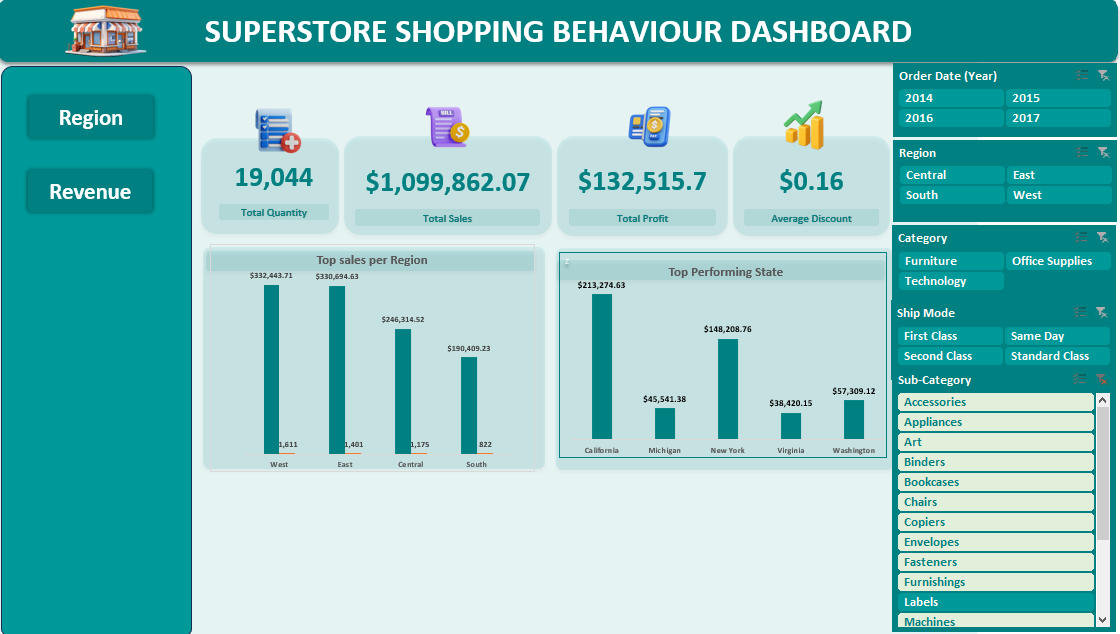
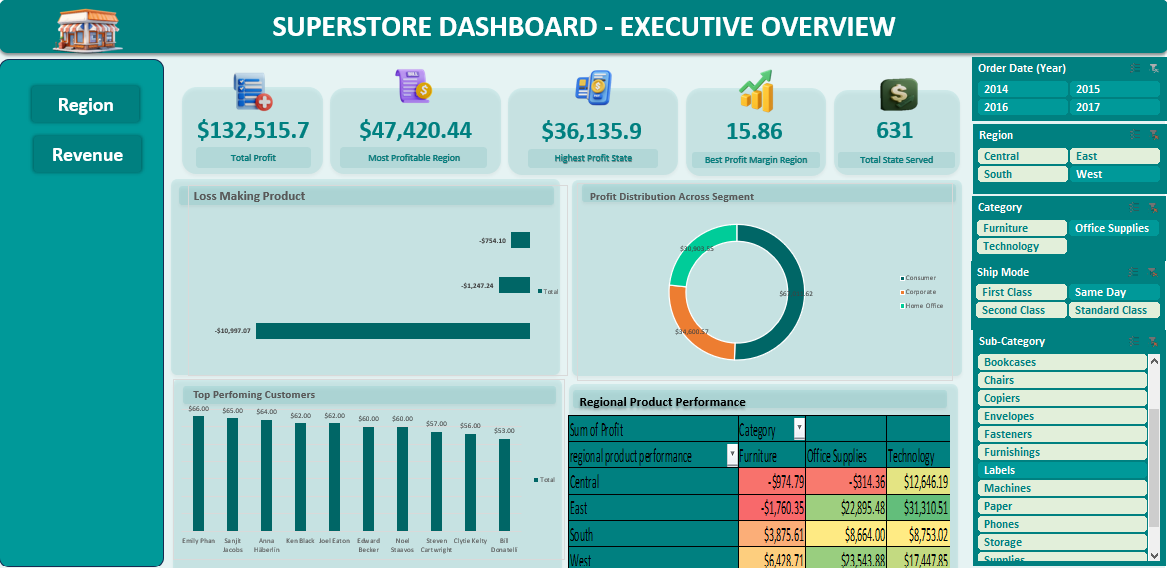
Update Excel data, refresh Dashboard images, and add new project assets

diff --git a/README.md b/README.md
@@ -107,6 +107,43 @@ Location and regional data
 - All 3 loss-making products are from the Furniture category confirming Furniture is a problem area.
 ![Loss-making Products](images/lossmakingproduct.png)
 
+### 9. Regional Business Performance by Revenue & Profit
+- West region led in both total sales ($332,443.71) and profit ($47,420.44)
+- East region came close in sales ($330,694.63) but had higher profit 
+($52,445.63) than West meaning East is more efficient
+- Central region had decent sales ($246,314.52) but the lowest profit ($11,357.04) which is a major concern
+- South had the lowest sales ($190,409.23) with profit of ($21,292.62).
+
+![Regional Business Performance by Revenue & Profit](images/regionalbussinessperformance.png)
+
+
+### 10. Product Performance Analysis
+- Technology dominated with the highest sales ($380,640.90) and highest profit ($70,157.57)
+- Furniture had high sales ($373,504.72) but extremely low profit ($7,569.17) confirming it as the weakest category
+- Office Supplies balanced well with $345,716.46 in sales and 
+$54,789.00 in profit.
+
+![Product Performance Analysis](images/productperformance.png)
+
+
+### 11. Top Performing Customers
+- Emily Phan led as the top customer with $66.00 in quantity purchased.
+- The top 10 customers had very close purchasing quantities rangeing from $53.00 to $66.00
+- No single customer dominated that is purchases were evenly spread across the top 10.
+
+![Top Performing Customers](images/topperformingcustomers.png)
+
+### 12. Regional Product Performance
+- South region led in Office Supplies profit ($31,310.51) 
+and Technology ($17,447.85)
+- East region had negative profit for Furniture (-$1,760.35)  meaning Furniture is losing money in the East
+- Central region also had negative Furniture profit (-$974.79)confirming Furniture is a problem across multiple regions
+- West region performed well in Office Supplies ($23,543.88) 
+and Technology ($6,428.71)
+- Office Supplies was the most consistently profitable category across all regions.
+
+![Regional Product Performance](images/regionalproduct%20performance.png)
+
 
 ## 📊 Dashoboard
 The dashboard below provides a visual summary of all key metrics and findings from the analysis.
@@ -120,17 +157,33 @@ The dashboard below provides a visual summary of all key metrics and findings fr
 
 ## ✅ Recommendations
 
-- Furniture category should be reviewed — consider repricing or discontinuing low-margin products to reduce profit leakage.
-- Technology category should be prioritized as it consistently delivers the highest profit with minimal discounting.
-- South region needs a targeted sales strategy to close the gap with the West and East regions.
-- Office Supplies discounting should be reviewed and controlled to protect profit margins
-- Loss-making products (Bretford Cr4500, Bush Somerset, Acme Scissors) should be evaluated for discontinuation or cost reduction
+- Furniture category should be reviewed urgently, it is making losses in Central and East regions specifically. Consider repricing or discontinuing low-margin furniture products.
+- Office Supplies should be expanded across all regions as it 
+proved to be the most consistent profit performer region by region
+- Technology should also be invested in as it delivers the 
+highest overall profit ($70,157.57).
+- Central region needs immediate attention, it had the lowest 
+profit ($11,357.04) despite decent sales ($246,314.52)
+- South region should be targeted for growth, it has the lowest sales but surprisingly strong Office Supplies performance
+- Office Supplies discounting should be controlled to protect 
+its profit margins
+- Loss-making products (Bretford Cr4500, Bush Somerset, Acme 
+Scissors) should be evaluated for discontinuation
+- Top performing customers should be retained through loyalty 
+programs as purchases are evenly spread with no dominant customer dominate, purchase are evenly spread across the top 10.
 
 
 ## 📝 Conclusion
 
-This analysis reveals that while the Superstore business is growing steadily from 2014 to 2017, there are clear areas of profit leakage particularly in the Furniture category. 
-Technology remains the strongest performer across 
-all metrics. 
-With the right pricing strategy and regional focus, the business has strong potential for even greater profitability.
+
+This analysis reveals that while the Superstore business is 
+growing steadily from 2014 to 2017, there are clear areas of 
+profit leakage particularly in the Furniture category, 
+especially in the Central and East regions.
+Office Supplies proved to be the most consistent performer 
+across all regions, while Technology delivered the highest 
+overall profit.
+With the right pricing strategy, regional focus, and 
+product decisions, the business has strong potential for 
+even greater profitability.
 